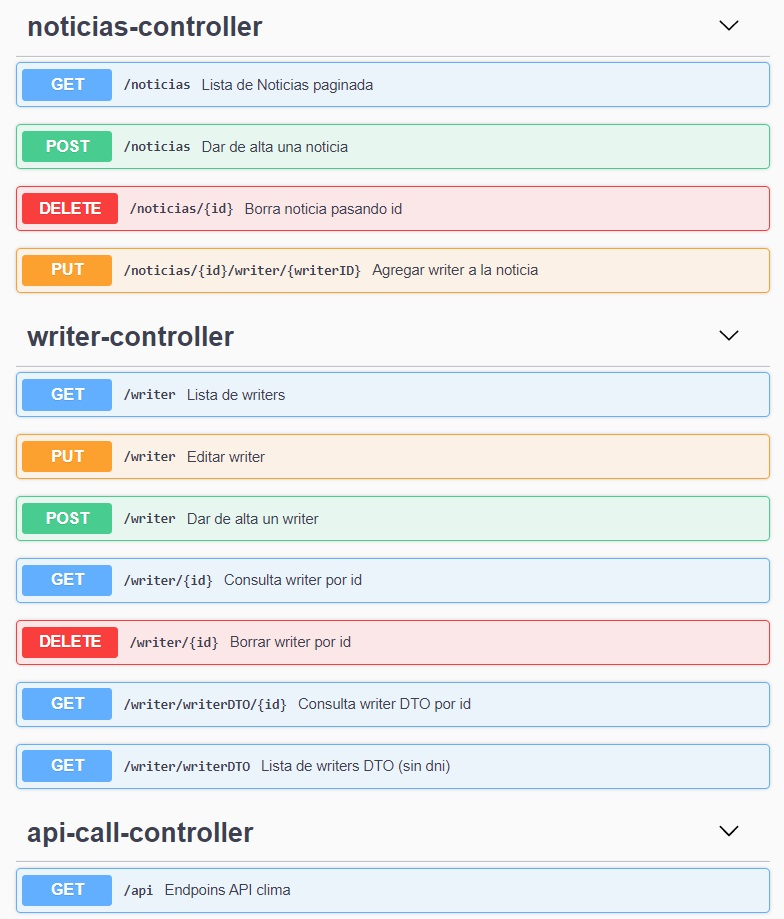
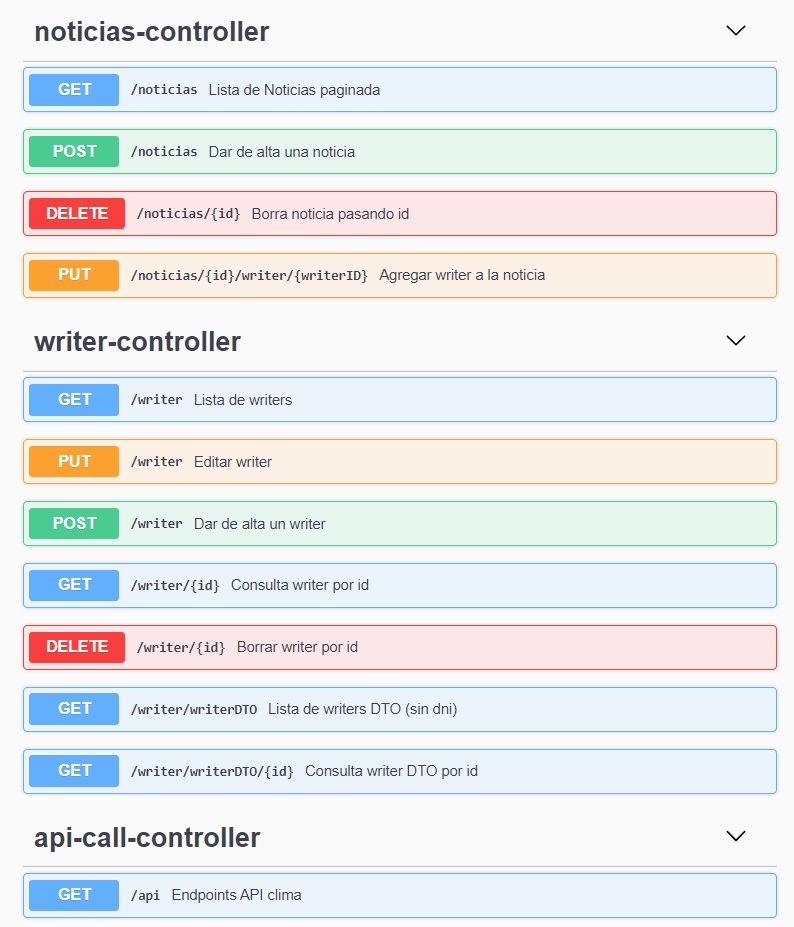
update swagger and readme.md 2

diff --git a/base/src/main/java/com/henry/news/base/controller/ApiCallController.java b/base/src/main/java/com/henry/news/base/controller/ApiCallController.java
@@ -18,7 +18,7 @@ public class ApiCallController {
     ApiCallService apiCallService;
 
     @GetMapping
-    @Operation(summary = "Endpoins API clima")
+    @Operation(summary = "Endpoints API clima")
     public Object callAPI() {
         try {
             ApiWeatherResponse apiWeatherResponse = apiCallService.callAPI();

diff --git a/README.md b/README.md
@@ -2,22 +2,22 @@
 
 Tareas:
 
-- Crear una clase padre Noticias abstract con titulo y descripcion y un owner del tipo Writer. Los hijos son NoticiasVideo, NoticiasImagenes y NoticiasTexto. Video tiene título, descripcion y url video, imágenes una lista de urls de imag y texto un string con texto.
+- Crear una clase padre Noticias abstract con título y descripción y un owner del tipo Writer. Los hijos son NoticiasVideo, NoticiasImagenes y NoticiasTexto. Video tiene título, descripción y url video, imágenes una lista de urls de imágenes y texto un string con texto.
 - Crear una clase Writer con nombre, apellido y dni.
-- Llamar a una api de clima, llamado con fallback y llamar a una segunda api
-- DTO para el writer que no muestre algun campo.
+- Llamar a una api de clima, llamado con fallback y llamar a una segunda api.
+- DTO para la clase Writer que no muestre algun campo.
 
 ### Our stack of technologies:
 
 - Back End:
 
-  - Spring
+  - Spring:
     - Dependencies :
       - Spring web
       - Data JPA
       - H2 Database
       - Lombok
-      - MySQl connector
+      - MySQL connector
       - Swagger (springdoc: openapi-ui y openapi-webmvc-core)
       - GSON
       - Circuit Breaker (resilience4j)
